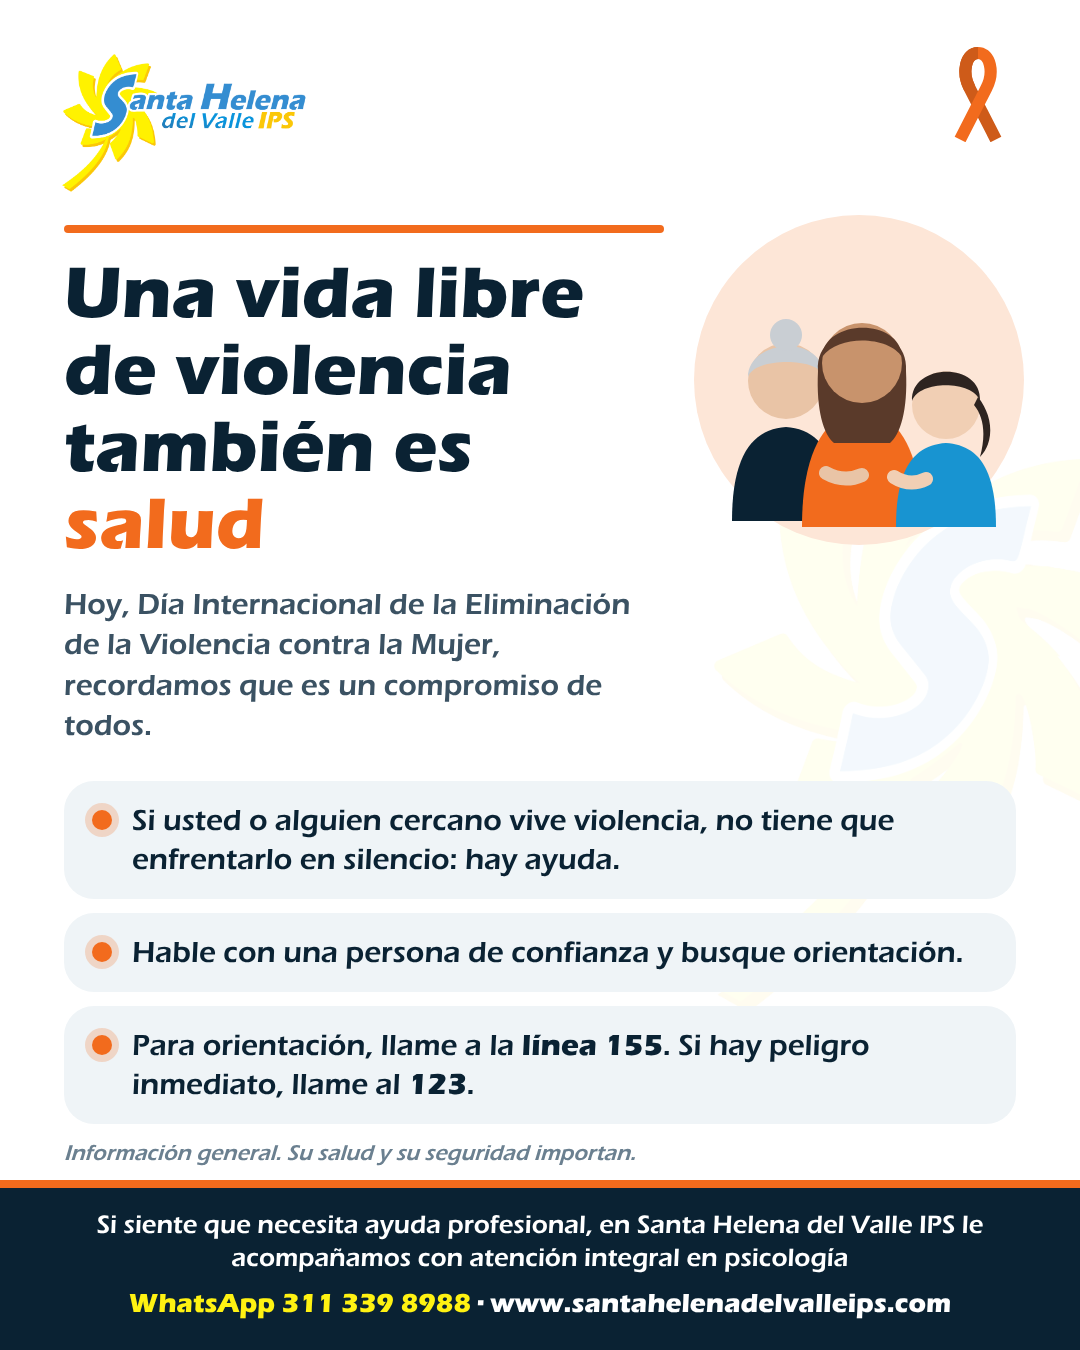
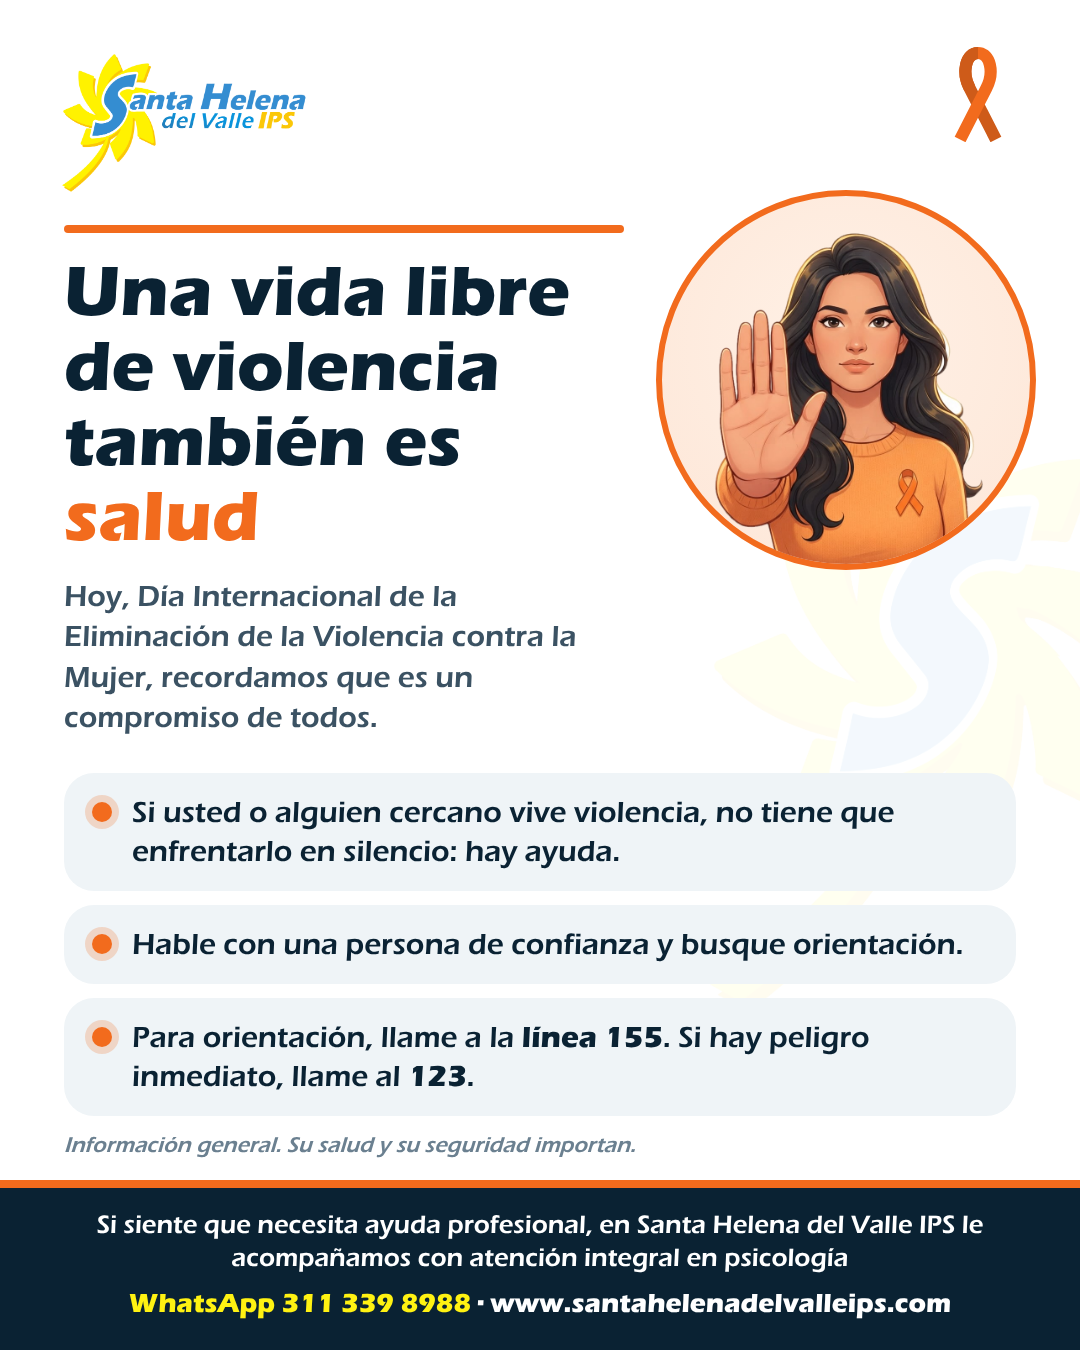
Post 25N: ilustración de la mujer con la mano en alto (de Nicolas) en círculo naranja
Claude-Session: https://claude.ai/code/session_01KgBCaN2Nb7mn6jAyyriR7q

diff --git a/entregas/creativo-instagram/2026-11-25-post-violencia-contra-la-mujer/fuente/post.html b/entregas/creativo-instagram/2026-11-25-post-violencia-contra-la-mujer/fuente/post.html
@@ -8,11 +8,12 @@ body{background:#888;padding:30px}
 .logo{position:absolute;left:60px;top:52px;width:250px}
 .liston{position:absolute;right:70px;top:46px;width:64px}
 .cont{position:absolute;left:64px;right:64px;top:225px}
-.linea{width:600px;height:8px;border-radius:4px;background:var(--acento)}
-h1{margin-top:22px;font-family:"Eras Bold ITC";font-weight:400;font-size:74px;line-height:1.04;width:600px}
+.linea{width:560px;height:8px;border-radius:4px;background:var(--acento)}
+h1{margin-top:22px;font-family:"Eras Bold ITC";font-weight:400;font-size:72px;line-height:1.04;width:560px}
 h1 span{color:var(--acento)}
-.apoyo{margin-top:22px;font-size:30px;line-height:1.35;color:#3B5263;width:600px}
-.escena{position:absolute;right:56px;top:215px;width:330px;height:330px;border-radius:50%;background:var(--acento-suave)}
+.apoyo{margin-top:22px;font-size:30px;line-height:1.35;color:#3B5263;width:560px}
+.escena{position:absolute;right:44px;top:190px;width:380px;height:380px;border-radius:50%;background:radial-gradient(circle at 50% 40%,#FFF1E6,var(--acento-suave));overflow:hidden;border:6px solid var(--acento)}
+.escena img{position:absolute;left:-28px;top:6px;width:430px;height:430px}
 ul{list-style:none;margin-top:34px;display:flex;flex-direction:column;gap:14px}
 li{background:#EFF4F7;border-radius:30px;padding:20px 28px;font-size:30px;line-height:1.3;display:flex;gap:20px;align-items:flex-start}
 li::before{content:"";flex:none;width:20px;height:20px;margin-top:9px;border-radius:50%;background:var(--acento);box-shadow:0 0 0 7px color-mix(in srgb,var(--acento) 22%,transparent)}
@@ -28,23 +29,7 @@ li b{font-family:"Eras Bold ITC";font-weight:400}
   <img class="marcaagua" src="img/icono-margarita-con-S-transparente.png">
   <img class="logo" src="img/logo-completo-transparente.png">
   <svg class="liston" viewBox="0 0 200 300"><path d="M156 292 L74 132 C48 82 62 22 100 22" fill="none" stroke="var(--acento)" stroke-width="38" stroke-linejoin="round" style="filter:brightness(.85)"/><path d="M44 292 L126 132 C152 82 138 22 100 22" fill="none" stroke="var(--acento)" stroke-width="38" stroke-linejoin="round"/><path d="M100 22 C62 22 48 82 74 132" fill="none" stroke="var(--acento)" stroke-width="38" style="filter:brightness(.85)"/></svg>
-  <div class="escena"><svg viewBox="0 0 330 330" width="330" height="330">
-    <!-- tres mujeres de distintas edades, sin rostro, una junto a otra -->
-    <g transform="translate(0 6)">
-      <!-- mayor (izquierda) -->
-      <path d="M38,300 C38,232 60,208 92,206 C124,208 146,232 146,300Z" fill="#0A2233"/>
-      <circle cx="92" cy="160" r="38" fill="#E9C4A6"/><path d="M54,156 C54,118 130,112 130,156 C126,136 60,136 54,156Z" fill="#C9CED3"/><circle cx="92" cy="114" r="16" fill="#C9CED3"/>
-      <!-- adulta (centro) -->
-      <path d="M108,306 C108,222 136,192 168,190 C200,192 228,222 228,306Z" fill="var(--acento)"/>
-      <path d="M124,150 C120,96 216,96 212,150 C214,190 206,214 196,222 L140,222 C130,214 122,190 124,150Z" fill="#5A3A2A"/>
-      <circle cx="168" cy="142" r="40" fill="#C8936C"/><path d="M128,136 C130,98 206,96 208,136 C196,116 146,112 128,136Z" fill="#5A3A2A"/>
-      <!-- joven (derecha) -->
-      <path d="M202,306 C202,244 222,224 252,222 C282,224 302,244 302,306Z" fill="#1894D1"/>
-      <circle cx="252" cy="184" r="34" fill="#F1CFB4"/><path d="M218,180 C216,142 288,140 286,180 C280,160 226,158 218,180Z" fill="#2E2420"/><path d="M284,176 C300,196 300,222 286,236 C292,214 290,196 280,184Z" fill="#2E2420"/>
-      <!-- brazos que se sostienen -->
-      <path d="M132,252 Q150,262 168,254" stroke="#E9C4A6" stroke-width="14" stroke-linecap="round" fill="none"/>
-      <path d="M200,256 Q216,266 232,258" stroke="#F1CFB4" stroke-width="14" stroke-linecap="round" fill="none"/>
-    </g></svg></div>
+  <div class="escena"><img src="img/mujer-alto.png"></div>
   <div class="cont">
     <div class="linea"></div>
     <h1>Una vida libre de violencia también es <span>salud</span></h1>

diff --git a/entregas/creativo-instagram/2026-11-25-post-violencia-contra-la-mujer/LEAME.md b/entregas/creativo-instagram/2026-11-25-post-violencia-contra-la-mujer/LEAME.md
@@ -8,3 +8,9 @@ Encargo directo del Agente Copies Redes con texto aprobado por Nicolas
   Nicolas lo pide expresamente). `comparar-A-B.png`: las dos juntas.
 - Sin Helenita, tono sobrio; ilustración propia de tres mujeres de distintas edades, sin rostro, juntas.
 - Letra Eras Bold / Eras Demi (manual). Diseño: `fuente/post.html?c=naranja` o `?c=marca`.
+
+## Versión 2 (24 nov) · elegida la A (naranja)
+- Línea naranja del ancho del título.
+- Ilustración nueva generada por Nicolas en otra herramienta con el prompt que le di (mujer con la mano abierta
+  en señal de «alto», tonos naranja), recortada del fondo blanco y puesta en un círculo con borde naranja:
+  `fuente/img/mujer-alto.png`.
